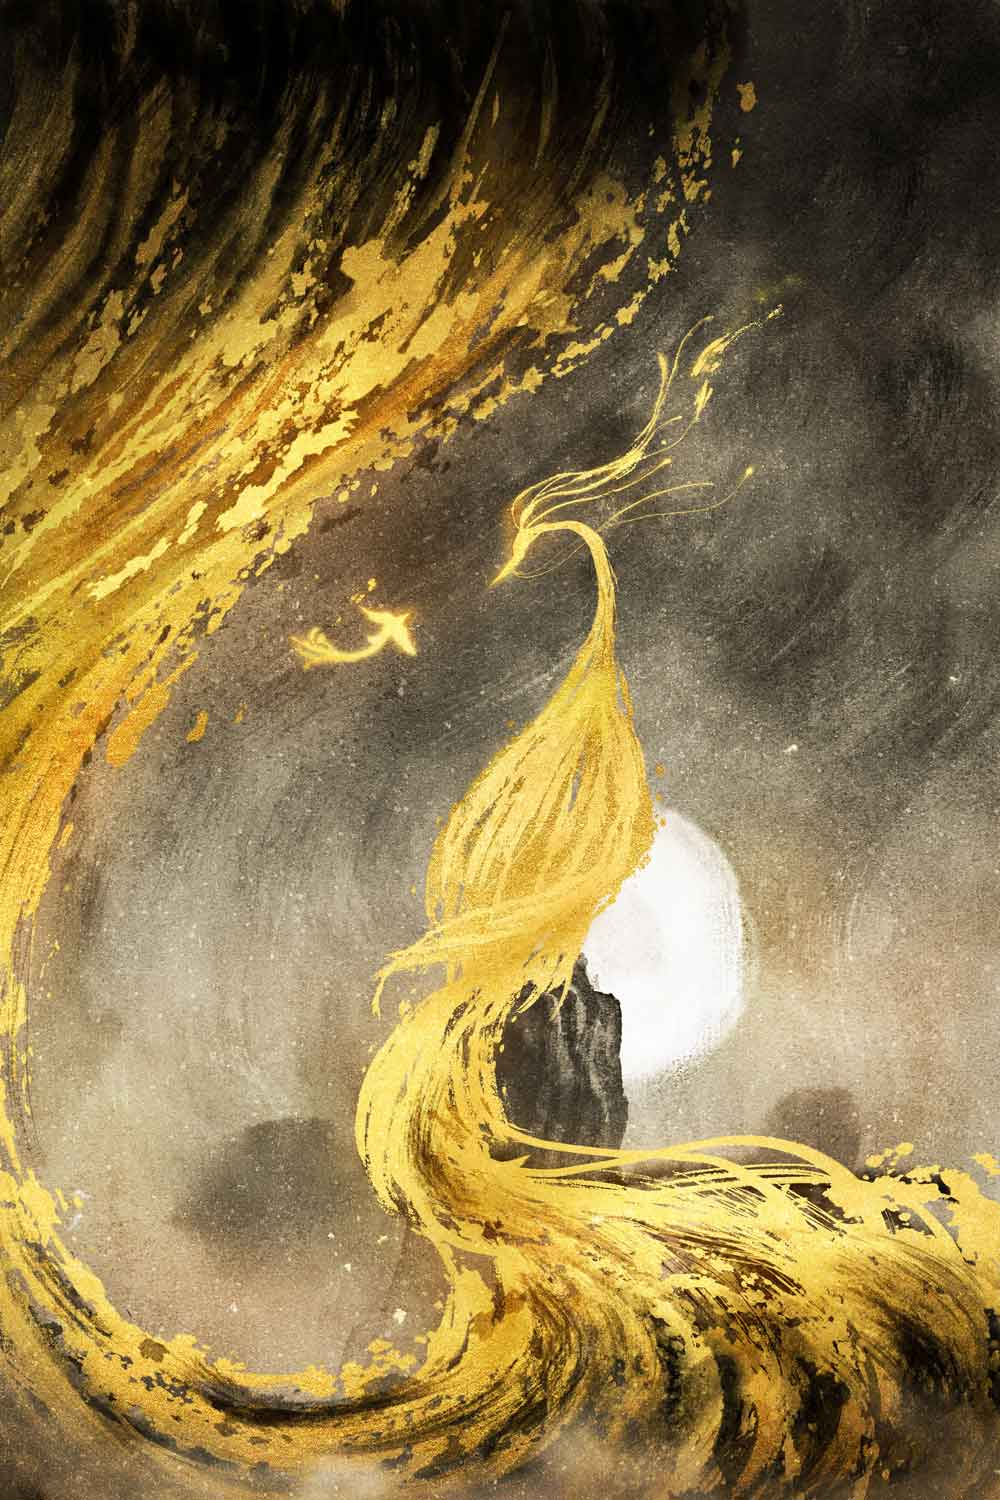
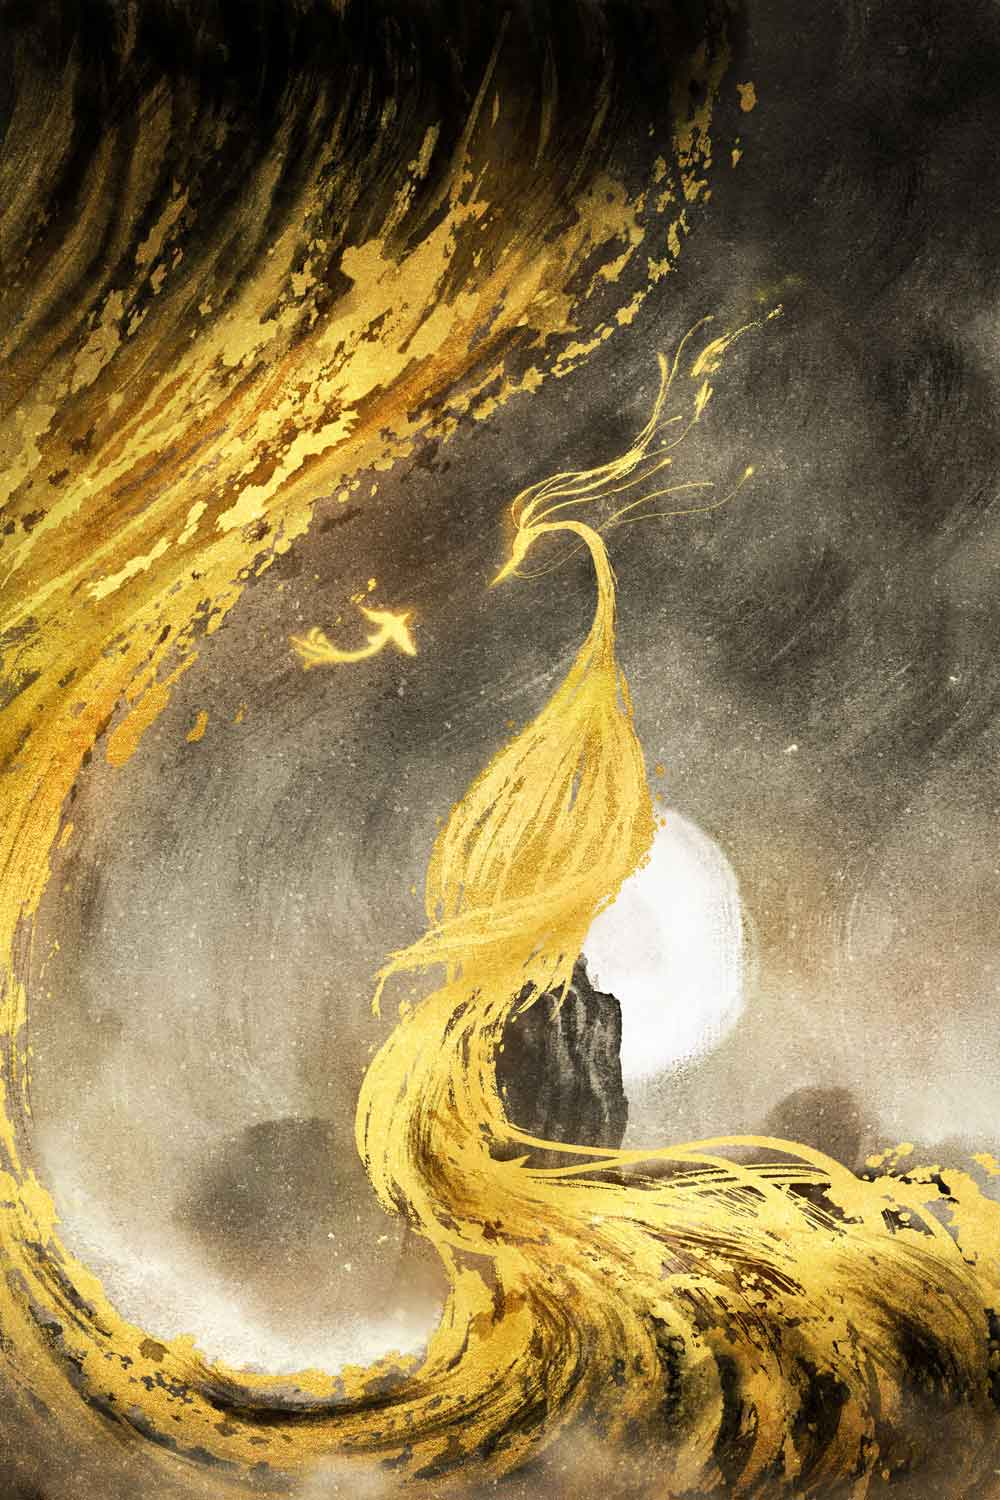
Update to v0.8: improvement

Changed region(s): [[0.031, 0.736, 0.465, 0.92], [0.868, 0.6747, 1.0, 0.7667]]

diff --git a/src/views/KeanaBlog.vue b/src/views/KeanaBlog.vue
@@ -4,7 +4,6 @@
     :style="{
       '--image-width': banner.imageWidth + 'px',
       '--image-height': banner.imageHeight + 'px',
-      '--image-padding': banner.imagePadding + 'px',
     }"
   >
     <div class="scene banner-wrapper" ref="bannerWrapper">
@@ -29,14 +28,24 @@
           <v-icon class="scroll-icon">mdi-chevron-double-down</v-icon>
         </div>
       </div>
+
+      <!-- <div class="gradient"></div> -->
     </div>
 
     <div ref="main">
       <div id="illustration" class="scene">
         <div
           class="scene title"
-          :style="{ 'background-image': `url(${scene.scene.illustration}` }"
+          :style="{
+            'background-image': `url(${scene.scene.illustrationNight}`,
+          }"
         >
+          <div
+            class="scene-flip"
+            :style="{
+              'background-image': `url(${scene.scene.illustrationLight}`,
+            }"
+          ></div>
           <div class="mask">illustration</div>
         </div>
         <gallery
@@ -191,8 +200,22 @@ export default {
 
       ScrollTrigger.create({
         trigger: "#illustration",
-        onEnter: () => (this.navActive = "插画"),
-        onEnterBack: () => (this.navActive = "插画"),
+        onEnter: () => {
+          this.navActive = "插画";
+          gsap.to("#illustration .scene-flip", {
+            opacity: 1,
+            duration: 0.25,
+          });
+        },
+        onEnterBack: () => {
+          this.navActive = "插画";
+        },
+        onLeaveBack: () => {
+          gsap.to("#illustration .scene-flip", {
+            opacity: 0,
+            duration: 0.25,
+          });
+        },
       });
 
       ScrollTrigger.create({
@@ -367,6 +390,15 @@ export default {
     &.title {
       // z-index: -1;
 
+      .scene-flip {
+        position: absolute;
+        width: 100%;
+        height: 100%;
+        opacity: 0;
+        background-size: cover;
+        background-position: center;
+      }
+
       .mask {
         font-size: 5rem;
         line-height: 5rem;
@@ -396,9 +428,10 @@ export default {
 
     .banner {
       position: relative;
-      height: 100vh;
-      max-height: 100%;
+      // height: 100vh;
+      // max-height: 100%;
       width: var(--image-width);
+      height: var(--image-height);
       overflow: hidden;
       background-image: url(../assets/images/banner/b1.jpg);
       background-size: 100%;
@@ -459,6 +492,14 @@ export default {
         }
       }
     }
+
+    .gradient {
+      position: absolute;
+      bottom: 0;
+      height: 100px;
+      width: 100%;
+      background-image: linear-gradient(#0000, white 80px);
+    }
   }
 
   footer {
@@ -469,7 +510,7 @@ export default {
     text-align: center;
     vertical-align: bottom;
     padding-bottom: 2rem;
-    background-color: #6f7a4c;
+    background-color: #4c7a67;
     color: rgba(255, 255, 255, 0.5);
   }
 }

diff --git a/src/components/Gallery.vue b/src/components/Gallery.vue
@@ -45,6 +45,9 @@
     <div class="gallery-viewer-button-panel" v-show="curr !== -1" ref="panel">
       <div class="gallery-viewer-previewer" ref="viewer">
         <img alt="image" />
+        <v-snackbar v-model="alert" :timeout="timeout" centered absolute>
+          {{ info }}
+        </v-snackbar>
       </div>
 
       <v-icon class="action-icon closable" @click="closeViewer">
@@ -94,6 +97,9 @@ export default {
     timeline: null,
     progress: 0,
     curr: -1,
+    info: "",
+    alert: false,
+    timeout: 2000,
   }),
 
   mounted() {
@@ -256,7 +262,11 @@ export default {
 
     showImage(i) {
       const next = this.curr + i;
-      if (next < 0 || next >= this.images.length) return;
+      if (next < 0 || next >= this.images.length) {
+        this.info = "No more images there";
+        this.alert = true;
+        return;
+      }
       const image = this.$refs.body.children[next].children[0];
       const { imageWidth, imageHeight } = this.calculate(image);
       const previewer = this.$refs.viewer.children[0];

diff --git a/src/views/Home.vue b/src/views/Home.vue
@@ -129,7 +129,8 @@ const payload = {
     },
     scene: {
       mineral: require("../assets/images/works/scene.mineral.jpg"),
-      illustration: require("../assets/images/works/scene.illustration.jpg"),
+      illustrationLight: require("../assets/images/works/scene.illustration-light.jpg"),
+      illustrationNight: require("../assets/images/works/scene.illustration-night.jpg"),
       inkWash: require("../assets/images/works/scene.ink-wash.jpg"),
       photography: require("../assets/images/works/scene.photo.jpg"),
     },
@@ -156,7 +157,7 @@ export default {
   components: { Loading, KeanaBlog },
   data: () => {
     return {
-      version: "v0.7",
+      version: "v0.8",
       completed: 0,
       total,
       cache: [],
